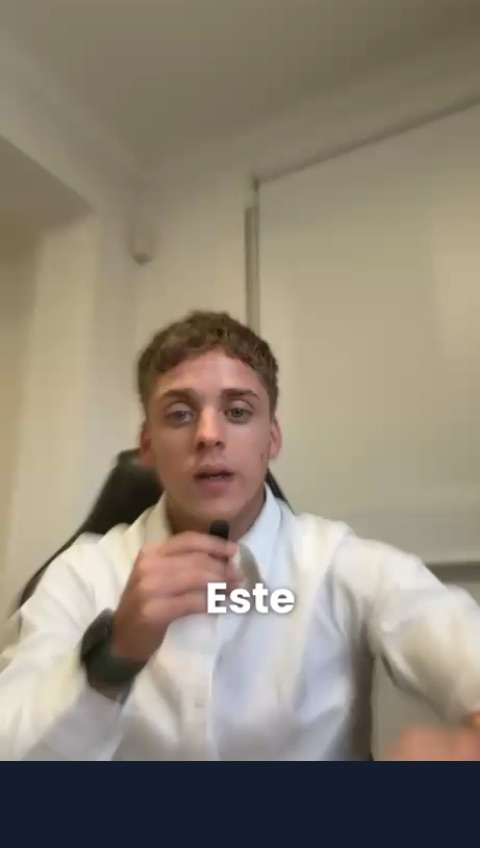
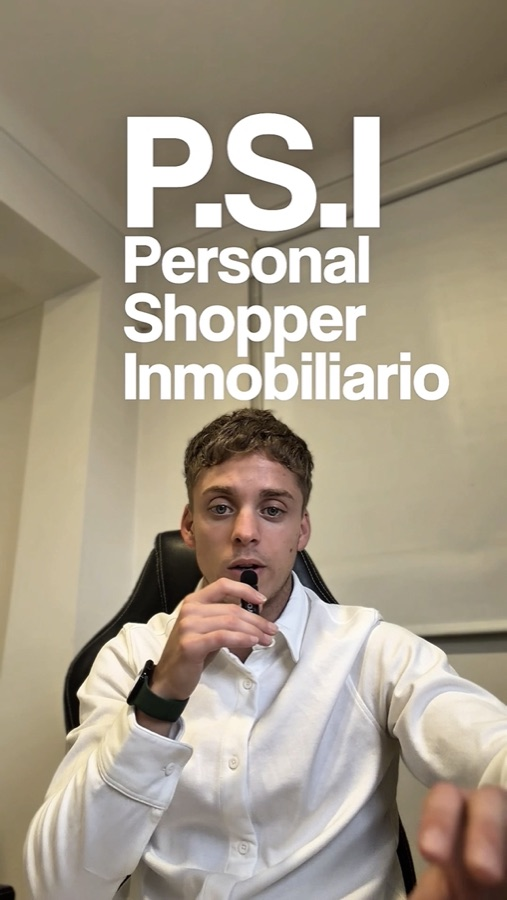
PSI: portada del video (captura de Tomás) con encuadre exacto, sin aire azul

diff --git a/psi.html b/psi.html
@@ -82,7 +82,7 @@
   /* ── Video de lanzamiento ── */
   .ps-videosec{background:var(--navy-deeper);padding:70px 24px;text-align:center;border-top:1px solid rgba(194,169,104,.14);}
   .ps-eyebrow{display:block;font-size:.6rem;font-weight:600;letter-spacing:.38em;text-transform:uppercase;color:var(--gold);margin-bottom:26px;}
-  .ps-videoplayer{width:min(340px,86vw);aspect-ratio:480/848;display:block;margin:0 auto;background:#000;border:1px solid rgba(194,169,104,.35);}
+  .ps-videoplayer{width:min(340px,86vw);aspect-ratio:480/848;display:block;margin:0 auto;background:#000;border:1px solid rgba(194,169,104,.35);object-fit:cover;}
   .ps-cta{display:inline-block;background:var(--off-white,#EEE5D0);color:var(--navy-deeper);font-size:.7rem;font-weight:700;letter-spacing:.22em;text-indent:.22em;text-transform:uppercase;padding:16px 36px;margin-top:36px;transition:background .25s,transform .25s;}
   .ps-cta:hover{background:#fff;transform:translateY(-1px);}
   .ps-pdf{display:inline-flex;align-items:center;gap:9px;margin-top:22px;font-size:.9rem;letter-spacing:.02em;color:var(--gold-light);border-bottom:1px solid var(--gold-light);padding-bottom:3px;transition:color .2s,border-color .2s,gap .25s var(--ease);}
@@ -184,7 +184,7 @@
 <!-- VIDEO DE LANZAMIENTO PSI (carga diferida: solo pesa si el usuario reproduce) -->
 <section class="ps-videosec">
   <span class="ps-eyebrow" data-i18n="ps_video_eye">El servicio, en un minuto</span>
-  <video class="ps-videoplayer" src="psi-video.mp4" poster="psi-video-poster.jpg" controls preload="none" playsinline></video>
+  <video class="ps-videoplayer" src="psi-video.mp4" poster="psi-video-poster.jpg?v=2" controls preload="none" playsinline></video>
 </section>
 
 <section class="ps-formsec" id="consulta">
